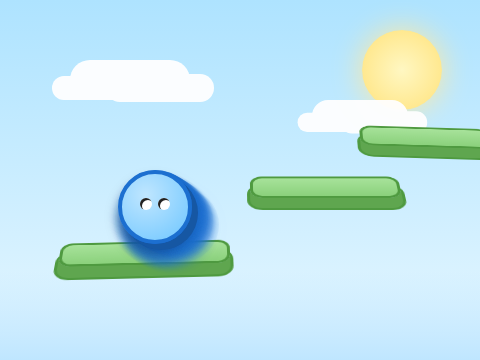
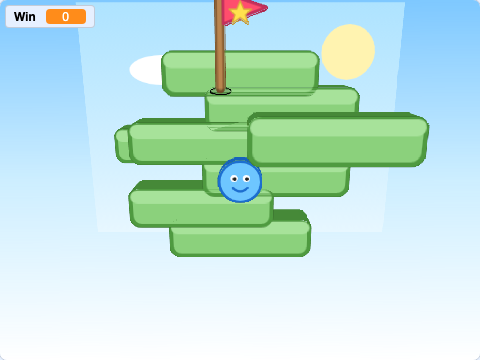
feat(popup): rework the 3D Platformer example into a beatable tower climb
Rebuild example 7 around the new follow camera and smoother play:
- The camera follows the hero up a tower of platforms (set camera to follow).
- Controls are polled in a `forever … if key pressed` loop for smooth movement
  instead of the stuttery `when key pressed` hats; jumps are gated on being
  grounded.
- Landing no longer jitters: resolve only while falling, pop out of a slab in
  1px steps, then settle one step back so the rest position is stable.
- Eight platforms (a six-step zigzag tower plus two deep/near decorative ledges)
  and a goal flag at the top with a win celebration; the climbing platforms sit
  just into the page so the hero renders in front of them, not buried.

Add popup-platformer-beatable.spec.js, which holds space to climb and asserts
the global Win flag flips via its on-stage monitor (verified in Chromium), and
update the headless example test + regenerate the thumbnail/description.

diff --git a/packages/scratch-gui/src/components/popup-examples-modal/starters/make-popup-examples.js b/packages/scratch-gui/src/components/popup-examples-modal/starters/make-popup-examples.js
@@ -6,7 +6,7 @@
 //   popup-example-4.sb3   Space Flyer     (arrow keys fly in x + depth)
 //   popup-example-5.sb3   Jump!           (arrow keys walk, space jumps)
 //   popup-example-6.sb3   Magic Garden    (arrow keys move, space stamps flowers)
-//   popup-example-7.sb3   3D Platformer   (gravity + jump across platforms in x/y/depth)
+//   popup-example-7.sb3   3D Platformer   (gravity + jump up a tower to a flag; follow cam)
 //   popup-example-8.sb3   Birthday Card   (text + animated effects + click to pop)
 //   popup-example-9.sb3   3D Crystal      (crossed clones form one composite gem)
 //   popup-example-10.sb3  Solar System    (planets orbit the sun in the ground plane)
@@ -102,6 +102,10 @@ const buildScript = (blocks, specs, x, y) => {
 const flag = (...specs) => [{op: 'event_whenflagclicked'}, ...specs];
 const setSky = sky => ({op: 'popup_setSky', fields: {SKY: [sky, null]}});
 const setCamera = view => ({op: 'popup_setCamera', fields: {VIEW: [view, null]}});
+// `set camera to follow [sprite]` — the 3D camera tracks and stays centred on the sprite.
+const followCamera = spriteName => ({op: 'popup_followCamera',
+    inputs: {SPRITE: {op: 'popup_menu_spriteMenu', menu: true, shadow: true,
+        fields: {spriteMenu: [spriteName, null]}}}});
 // 'shown' | 'hidden' — when hidden the sky shows behind the sprites instead of the backdrop.
 const setBackdrop = visible => ({op: 'popup_setBackdrop', fields: {VISIBLE: [visible, null]}});
 const setThickness = v => ({op: 'popup_setThickness', inputs: {AMOUNT: num(v)}});
@@ -129,6 +133,12 @@ const pointDir = v => ({op: 'motion_pointindirection', inputs: {DIRECTION: num(v
 const turn = v => ({op: 'motion_turnright', inputs: {DEGREES: num(v)}});
 const yPos = () => ({op: 'motion_yposition'});
 const xPos = () => ({op: 'motion_xposition'});
+
+// `key [key] pressed?` boolean — poll a key every frame (in a forever-if) for smooth,
+// continuous movement, unlike the `when key pressed` hat which stutters on the OS repeat.
+const keyPressed = key => ({op: 'sensing_keypressed', boolean: true,
+    inputs: {KEY_OPTION: {op: 'sensing_keyoptions', menu: true, shadow: true,
+        fields: {KEY_OPTION: [key, null]}}}});
 
 const setSize = v => ({op: 'looks_setsizeto', inputs: {SIZE: num(v)}});
 const changeSize = v => ({op: 'looks_changesizeby', inputs: {CHANGE: num(v)}});
@@ -521,14 +531,29 @@ const garden = [
     })
 ];
 
-// ---- example 7: 3D Platformer (gravity + jump between platforms in x/y/depth) ----
-// A hopper with real gravity. Arrow keys walk (x) and step into/out of the scene
-// (depth); space jumps. Platforms are clones placed at different x, y AND depth, so
-// reaching them means lining up in all three axes before you leap. The clones inherit
-// the platform's 3D thickness/depth (3D properties are inherited like size/direction).
+// ---- example 7: 3D Platformer (gravity + jump up a tower to a flag) ---------------
+// A hopper with real gravity climbs a tower of floating platforms to a goal flag, while
+// the 3D camera FOLLOWS it up (set camera to follow [Hero]). Three things make it play
+// well:
+//  - Controls are POLLED every frame in a `forever … if key pressed` loop (left/right
+//    walk, up/down step into and out of the scene, space jumps). That is smooth, unlike
+//    the `when key pressed` hat which stutters on the OS key-repeat delay.
+//  - Landing no longer jitters: instead of rising in coarse 3px steps, the hero pops out
+//    of a platform in 1px steps and then settles one step back onto the surface, so its
+//    end-of-frame rest position is stable (no more bobbing on contact).
+//  - A jump only fires when grounded, so you can't fly by holding space.
+// Two extra ledges sit at front/back depths to explore by stepping in/out; the climb
+// itself stays near depth 0 so it's always winnable. Reaching the flag sets the global
+// "Win" flag (shown in a monitor and used by the beatable test) and plays a celebration.
 const platformSlabSVG = reg(`<svg xmlns="http://www.w3.org/2000/svg" width="150" height="44" viewBox="0 0 150 44">
   <rect x="3" y="3" width="144" height="38" rx="10" fill="#8bd17c" stroke="#4f9a40" stroke-width="4"/>
   <rect x="3" y="3" width="144" height="14" rx="7" fill="#a7e29a"/></svg>`);
+const goalFlagSVG = reg(`<svg xmlns="http://www.w3.org/2000/svg" width="80" height="130" viewBox="0 0 80 130">
+  <rect x="12" y="6" width="8" height="118" rx="4" fill="#b9854f" stroke="#8a5f33" stroke-width="3"/>
+  <path d="M20 12 L70 28 L20 46 Z" fill="#ff4d6d" stroke="#c2305c" stroke-width="3" stroke-linejoin="round"/>
+  <polygon points="40,21 44,30 53,30 46,36 49,45 40,39 31,45 34,36 27,30 36,30"
+    fill="#ffe14d" stroke="#d9a93a" stroke-width="1.5" stroke-linejoin="round"/>
+  <ellipse cx="16" cy="124" rx="13" ry="4" fill="#000" opacity="0.18"/></svg>`);
 const platformBgSVG = reg(`<svg xmlns="http://www.w3.org/2000/svg" width="480" height="360" viewBox="0 0 480 360">
   <defs><linearGradient id="sky" x1="0" y1="0" x2="0" y2="1">
   <stop offset="0" stop-color="#aee3ff"/><stop offset="1" stop-color="#e7f7ff"/></linearGradient></defs>
@@ -537,53 +562,103 @@ const platformBgSVG = reg(`<svg xmlns="http://www.w3.org/2000/svg" width="480" h
   <ellipse cx="120" cy="96" rx="48" ry="22" fill="#ffffff"/><ellipse cx="160" cy="104" rx="40" ry="18" fill="#ffffff"/>
   <ellipse cx="330" cy="150" rx="44" ry="20" fill="#ffffff"/></svg>`);
 
+// Tower of platforms [x, y, depth]. The first six zigzag up the centre, all at the same
+// modest depth (26, just into the page) and wide enough to overlap x = 0, so a straight-up
+// jump always lands on the next one. The hero stays at depth 0 (in front of them), so it's
+// never buried in the stack — yet 26 < the ~31-unit landing tolerance, so it still lands.
+// The last two are decorative ledges set far / near for parallax (explore by stepping
+// in and out with the up/down arrows).
+const CLIMB_DEPTH = 26;
+const PLATFORMS = [
+    [0, -125, CLIMB_DEPTH], [-50, -83, CLIMB_DEPTH], [45, -41, CLIMB_DEPTH],
+    [-45, 1, CLIMB_DEPTH], [50, 43, CLIMB_DEPTH], [0, 85, CLIMB_DEPTH],
+    [-95, -25, 140], [100, 20, -60]
+];
 const platformBlocks = {};
-// Place each platform, then clone. The clone keeps the position + 3D depth/thickness
-// it was stamped with; the original hides once the three platforms exist.
-buildScript(platformBlocks, flag(
-    setThickness(30),
-    gotoXY(-150, -120), setDepth(0), createClone(),
-    gotoXY(25, -45), setDepth(60), createClone(),
-    gotoXY(155, 25), setDepth(-60), createClone(),
-    hide()
-), 30, 30);
+const placePlatforms = [setThickness(40)];
+for (const [x, y, d] of PLATFORMS) placePlatforms.push(gotoXY(x, y), setDepth(d), createClone());
+placePlatforms.push(hide()); // hide the original once every clone exists
+buildScript(platformBlocks, flag(...placePlatforms), 30, 30);
 buildScript(platformBlocks, whenClone(show()), 320, 30);
 
-const vy = mkVar('vy');
+const vy = mkVar('vy'); // vertical velocity (hero-local)
+const onGround = mkVar('onGround'); // 1 while standing on a platform (hero-local)
+const won = mkVar('Win'); // 1 once the flag is reached (global: shared with Goal + monitor)
 const heroBlocks = {};
 buildScript(heroBlocks, flag(
-    setThickness(20),
-    setVar(vy, 0),
-    gotoXY(-150, -70), setDepth(0),
+    setThickness(22), setSize(75),
+    setVar(won, 0), setVar(vy, 0), setVar(onGround, 0),
+    gotoXY(0, -75), setDepth(0),
     forever(
-        // Gravity: accelerate downward, then move by the velocity.
-        changeVar(vy, -1.5),
-        changeYBy(varRep(vy)),
-        // Landing: if we have sunk into a platform, stop falling and rise back to its top.
-        ifThen(touching3D('Platform'),
-            setVar(vy, 0),
-            repeatUntil(not(touching3D('Platform')), changeYBy(3))
+        // Controls, polled every frame for smooth motion (frozen once you've won).
+        ifThen(eq(varRep(won), 0),
+            ifThen(keyPressed('right arrow'), changeX(7)),
+            ifThen(keyPressed('left arrow'), changeX(-7)),
+            ifThen(keyPressed('up arrow'), changeDepth(16)),
+            ifThen(keyPressed('down arrow'), changeDepth(-16)),
+            // Jump only from the ground (no mid-air jumps / flying).
+            ifThen(and(keyPressed('space'), eq(varRep(onGround), 1)),
+                setVar(vy, 13), setVar(onGround, 0))
         ),
-        // Fell past the bottom: respawn on the first platform.
+        // Gravity, with a terminal velocity so a long fall can't tunnel through a slab.
+        changeVar(vy, -1.2),
+        ifThen(lt(varRep(vy), -14), setVar(vy, -14)),
+        changeYBy(varRep(vy)),
+        // Land: while falling/resting, pop up out of the slab in 1px steps, then settle
+        // one step back onto its surface so the resting position is stable (no jitter).
+        setVar(onGround, 0),
+        ifThen(and(touching3D('Platform'), not(gt(varRep(vy), 0))),
+            repeatUntil(not(touching3D('Platform')), changeYBy(1)),
+            changeYBy(-1),
+            setVar(vy, 0),
+            setVar(onGround, 1)
+        ),
+        // Fell off the bottom: respawn at the start.
         ifThen(lt(yPos(), -175),
-            gotoXY(-150, -70), setDepth(0), setVar(vy, 0)
-        )
+            gotoXY(0, -75), setDepth(0), setVar(vy, 0))
     )
 ), 30, 30);
-buildScript(heroBlocks, whenKey('right arrow', changeX(14)), 30, 230);
-buildScript(heroBlocks, whenKey('left arrow', changeX(-14)), 30, 310);
-buildScript(heroBlocks, whenKey('up arrow', changeDepth(20)), 30, 390);
-buildScript(heroBlocks, whenKey('down arrow', changeDepth(-20)), 30, 470);
-buildScript(heroBlocks, whenKey('space', setVar(vy, 18)), 30, 550);
+// Reaching the flag wins. Touching it, or landing on the top platform (grounded and high
+// up — so a mid-jump apex from a lower platform can't false-trigger), sets Win = 1 and
+// the hero does a celebratory spin-and-grow.
+buildScript(heroBlocks, flag(
+    waitUntil(or(touching3D('Goal'), and(eq(varRep(onGround), 1), gt(yPos(), 120)))),
+    setVar(won, 1),
+    repeatN(18, changeSpin(10), changeEffect('color', 6), changeSize(2)),
+    repeatN(18, changeSpin(10), changeEffect('color', 6), changeSize(-2)),
+    setEffect('color', 0)
+), 360, 30);
+
+const goalBlocks = {};
+buildScript(goalBlocks, flag(
+    setThickness(18), setSize(95), setDepth(0),
+    gotoXY(0, 120), show(),
+    // Idle: bob gently until the player arrives.
+    forever(ifThen(eq(varRep(won), 0),
+        repeatN(16, changeYBy(0.7)),
+        repeatN(16, changeYBy(-0.7))
+    ))
+), 30, 30);
+buildScript(goalBlocks, flag(
+    waitUntil(eq(varRep(won), 1)),
+    setSky('dream'), // the sky bursts into colour to celebrate
+    repeatN(24, changeSpin(12), changeEffect('color', 8), changeSize(2)),
+    repeatN(24, changeSpin(12), changeEffect('color', 8), changeSize(-2))
+), 360, 30);
+
 const platformer = [
-    stage(platformBgSVG, buildScript({}, flag(setSky('day'), setCamera('drag')), 30, 30)),
+    stage(platformBgSVG, buildScript({}, flag(setSky('day'), followCamera('Hero')), 30, 30), [won]),
     sprite({
-        name: 'Platform', svg: platformSlabSVG, rcx: 75, rcy: 22, x: -150, y: -120, size: 120,
+        name: 'Platform', svg: platformSlabSVG, rcx: 75, rcy: 22, x: 0, y: -125, size: 125,
         layer: 1, blocks: platformBlocks
     }),
     sprite({
-        name: 'Hero', svg: hopperSVG, rcx: 40, rcy: 40, x: -150, y: -70, size: 80,
-        layer: 2, vars: [vy], blocks: heroBlocks
+        name: 'Goal', svg: goalFlagSVG, rcx: 40, rcy: 65, x: 0, y: 120, size: 95,
+        layer: 3, blocks: goalBlocks
+    }),
+    sprite({
+        name: 'Hero', svg: hopperSVG, rcx: 40, rcy: 40, x: 0, y: -75, size: 75,
+        layer: 2, vars: [vy, onGround], blocks: heroBlocks
     })
 ];
 
@@ -914,7 +989,7 @@ Promise.resolve()
     .then(() => writeProject('popup-example-4.sb3', spaceFlyer))
     .then(() => writeProject('popup-example-5.sb3', jumper))
     .then(() => writeProject('popup-example-6.sb3', garden))
-    .then(() => writeProject('popup-example-7.sb3', platformer))
+    .then(() => writeProject('popup-example-7.sb3', platformer, [varMonitor(won, 5, 5)]))
     .then(() => writeProject('popup-example-8.sb3', birthdayCard))
     .then(() => writeProject('popup-example-9.sb3', crystal))
     .then(() => writeProject('popup-example-10.sb3', solarSystem))

diff --git a/packages/scratch-gui/test/playwright/popup-platformer-beatable.spec.js b/packages/scratch-gui/test/playwright/popup-platformer-beatable.spec.js
@@ -1,0 +1,69 @@
+// @ts-check
+// Verifies the 3D Platformer example (popup-example-7.sb3) can actually be beaten.
+//
+// The hero climbs the central tower of platforms by jumping straight up: each platform
+// overlaps x = 0 and a jump clears exactly one step, so simply HOLDING space (the jump
+// only fires when grounded, so it auto-hops on every landing) walks it to the flag at
+// the top. Reaching the flag sets the global "Win" flag to 1, which we read from its
+// on-stage monitor. 3D rendering needs WebGL, so this runs in Chromium only.
+const {test, expect} = require('@playwright/test');
+const path = require('path');
+const {dismissExamplesModal} = require('./popup-helpers');
+
+const STARTERS = path.resolve(__dirname, '../../src/components/popup-examples-modal/starters');
+
+test.skip(({browserName}) => browserName !== 'chromium', 'WebGL/3D requires Chromium');
+
+// Read the value shown in the "Win" variable monitor (the label div's sibling), or null.
+const readWin = page => page.evaluate(() => {
+    const labels = Array.from(document.querySelectorAll('[class*="label"]'));
+    for (const label of labels) {
+        if (label.textContent && label.textContent.trim() === 'Win') {
+            const value = label.parentElement.querySelector('[class*="value"]');
+            return value ? value.textContent.trim() : null;
+        }
+    }
+    return null;
+});
+
+test('3D Pop-Up platformer (example 7) can be beaten', async ({page}) => {
+    const pageErrors = [];
+    page.on('pageerror', err => pageErrors.push(err.stack || err.message || String(err)));
+    page.on('dialog', d => d.accept());
+
+    await page.goto('index.html');
+    await expect(page.getByText('Backpack', {exact: true})).toBeVisible();
+    await dismissExamplesModal(page);
+
+    // Load the platformer via File > Load from your computer.
+    await page.getByText('File', {exact: true}).click();
+    const [chooser] = await Promise.all([
+        page.waitForEvent('filechooser'),
+        page.getByText('Load from your computer', {exact: false}).click()
+    ]);
+    await chooser.setFiles(path.join(STARTERS, 'popup-example-7.sb3'));
+    await page.waitForTimeout(1500);
+
+    // Green flag: builds the tower, pops into 3D and starts the follow camera.
+    await page.getByRole('button', {name: 'Start project'}).click();
+    await page.waitForTimeout(1200);
+
+    // Win starts at 0.
+    expect(await readWin(page)).toBe('0');
+
+    // Hold space to climb. The VM keeps the key "down" until keyup, so the forever loop
+    // sees it pressed every frame and auto-hops on each landing.
+    await page.evaluate(() => document.activeElement && document.activeElement.blur());
+    await page.keyboard.down('Space');
+
+    // Poll the Win monitor; the climb is ~5 hops (~4s), so 20s is a generous margin.
+    let won = false;
+    for (let i = 0; i < 80 && !won; i++) {
+        await page.waitForTimeout(250);
+        won = (await readWin(page)) === '1';
+    }
+    await page.keyboard.up('Space');
+
+    expect(won, 'the hero reached the goal flag (Win === 1)').toBe(true);
+    expect(pageErrors, 'no uncaught exceptions while playing').toEqual([]);
+});

diff --git a/packages/scratch-vm/test/integration/popup_examples.js b/packages/scratch-vm/test/integration/popup_examples.js
@@ -39,13 +39,22 @@ test('3D Pop-Up example 7 (platformer): platforms clone with inherited depths', 
         const platforms = vm.runtime.targets.filter(
             target => target.sprite && target.sprite.name === 'Platform' && !target.isOriginal
         );
-        t.equal(platforms.length, 3, 'three platform clones were created');
+        t.equal(platforms.length, 8, 'all eight platform clones were created');
         const depths = platforms.map(p => popupState(p).depth).sort((a, b) => a - b);
-        t.same(depths, [-60, 0, 60], 'clones inherited the three distinct depths');
+        // Six climbing platforms at the same depth plus two decorative ledges (near / far).
+        t.same(depths, [-60, 26, 26, 26, 26, 26, 26, 140], 'clones inherited their depths');
 
         const hero = vm.runtime.targets.find(target => target.sprite.name === 'Hero' && target.isOriginal);
         t.ok(hero, 'the hero sprite exists');
         t.ok(Number.isFinite(popupState(hero).thickness), 'hero has 3D state');
+
+        const goal = vm.runtime.targets.find(target => target.sprite && target.sprite.name === 'Goal');
+        t.ok(goal, 'the goal flag sprite exists');
+
+        const stage = vm.runtime.getTargetForStage();
+        const winVar = Object.values(stage.variables).find(v => v.name === 'Win');
+        t.ok(winVar, 'the global Win flag exists');
+        t.equal(Number(winVar && winVar.value), 0, 'Win is 0 before the goal is reached');
         t.end();
     });
 });

diff --git a/packages/scratch-gui/test/playwright/popup-examples.spec.js b/packages/scratch-gui/test/playwright/popup-examples.spec.js
@@ -27,12 +27,12 @@ const examples = [
         drag: true,
         keys: ['Space', 'ArrowRight', 'ArrowRight', 'Space', 'ArrowUp', 'ArrowUp', 'Space',
             'ArrowRight', 'ArrowRight', 'Space']},
-    // Platformer: walk + step into the scene + jump across the floating platforms.
+    // Platformer: jump up the tower of floating platforms (the camera follows the hero).
+    // A full beatable playthrough is covered by popup-platformer-beatable.spec.js.
     {file: 'popup-example-7.sb3',
         shot: 'example-platformer.png',
         drag: true,
-        keys: ['ArrowUp', 'ArrowUp', 'Space', 'ArrowRight', 'ArrowRight', 'Space',
-            'ArrowUp', 'Space']},
+        keys: ['Space', 'Space', 'Space']},
     // Birthday card: click around the upper stage to pop balloons; runs its own
     // animated effects on the green flag.
     {file: 'popup-example-8.sb3',

diff --git a/packages/scratch-gui/src/components/popup-examples-modal/starters.js b/packages/scratch-gui/src/components/popup-examples-modal/starters.js
@@ -77,8 +77,9 @@ const starters = [
     {
         id: '3d-platformer',
         title: '3D Platformer',
-        description: 'Hop between floating platforms with gravity. Arrows walk and step ' +
-            'in/out; space jumps — line up in all three axes to land.',
+        description: 'Climb a tower of floating platforms to the flag at the top. Arrows ' +
+            'walk and step in/out, space jumps, and the camera follows you up. Reach the ' +
+            'goal to win!',
         thumbnail: thumbPlatformer,
         sb3: sb3Platformer
     },
